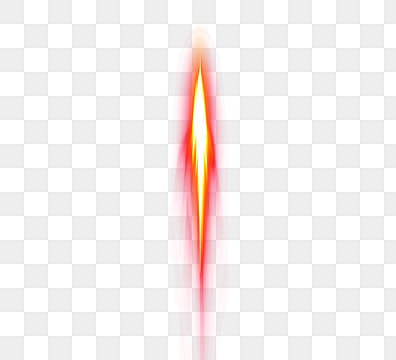
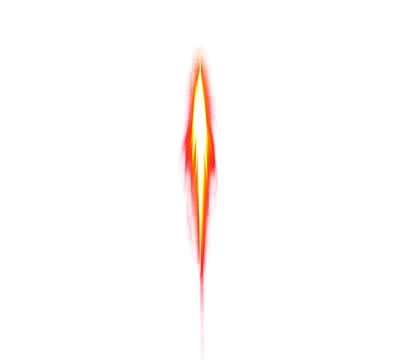
换为了透明的图片

Changed region(s): [[0.4242, 0.0611, 0.5758, 1.0]]

diff --git a/src/main/java/resource/config/ImagePath.java b/src/main/java/resource/config/ImagePath.java
@@ -1,6 +1,6 @@
 package resource.config;
 
 public class ImagePath {
-    public static final String TANK_IMG= "/images/tankImg.JPG";
+    public static final String TANK_IMG= "/images/tankImg.png";
     public static final String BULLET_IMG="/images/bulletImg.png";
 }

diff --git a/src/main/java/com/tankbattle/model/Bullet.java b/src/main/java/com/tankbattle/model/Bullet.java
@@ -14,7 +14,7 @@ public class Bullet {
     public int bulletDir;
     private String BULLET_IMG= ImagePath.BULLET_IMG;
     private Image image=new Image(BULLET_IMG,true);
-    private int imageWid=20;
+    private int imageWid=100;
     private double imageHei;
 
 

diff --git a/src/main/java/com/tankbattle/model/Tank.java b/src/main/java/com/tankbattle/model/Tank.java
@@ -28,7 +28,7 @@ public  abstract class Tank {
         this.x=x;
         this.y=y;
         this.speed=speed;
-        this.image=new Image(TANK_IMG);
+        this.image=new Image(TANK_IMG,true);
         this.imageWid=imageWid;
         this.dir=3;
 
